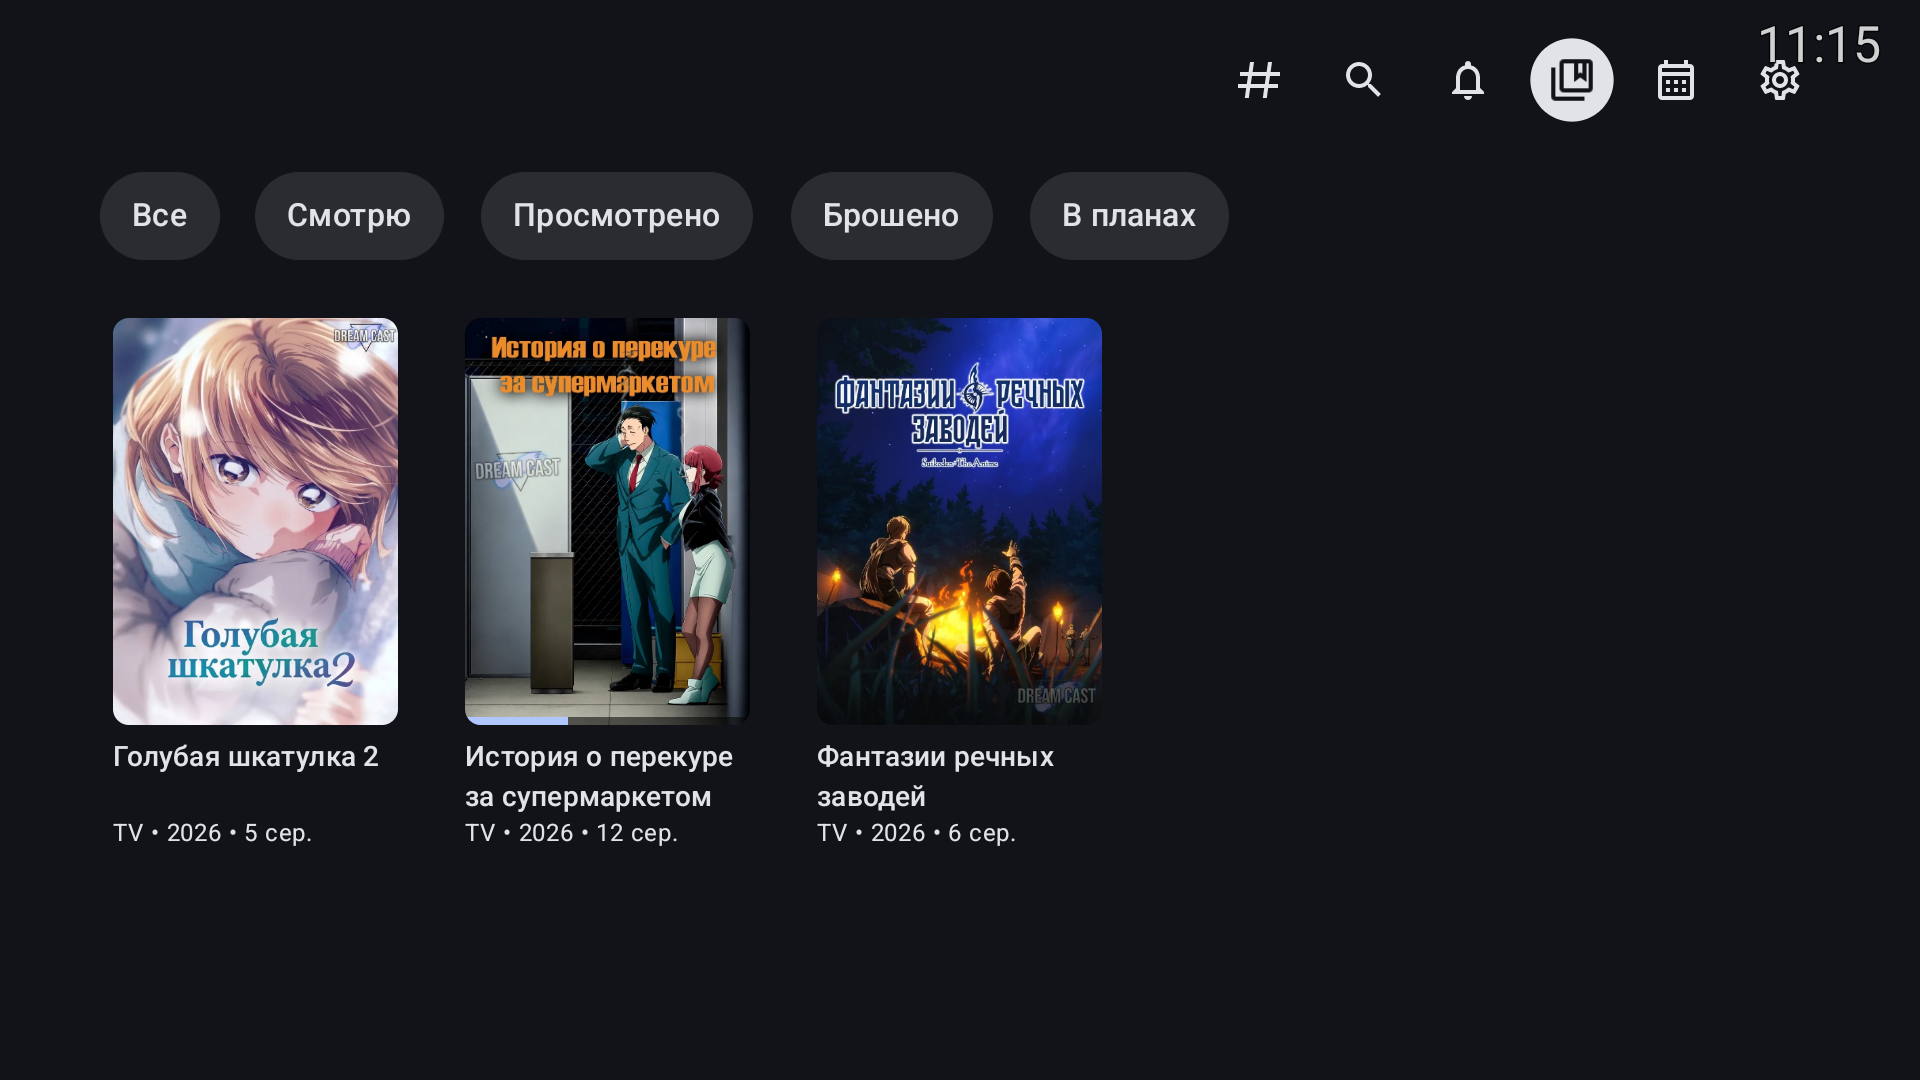
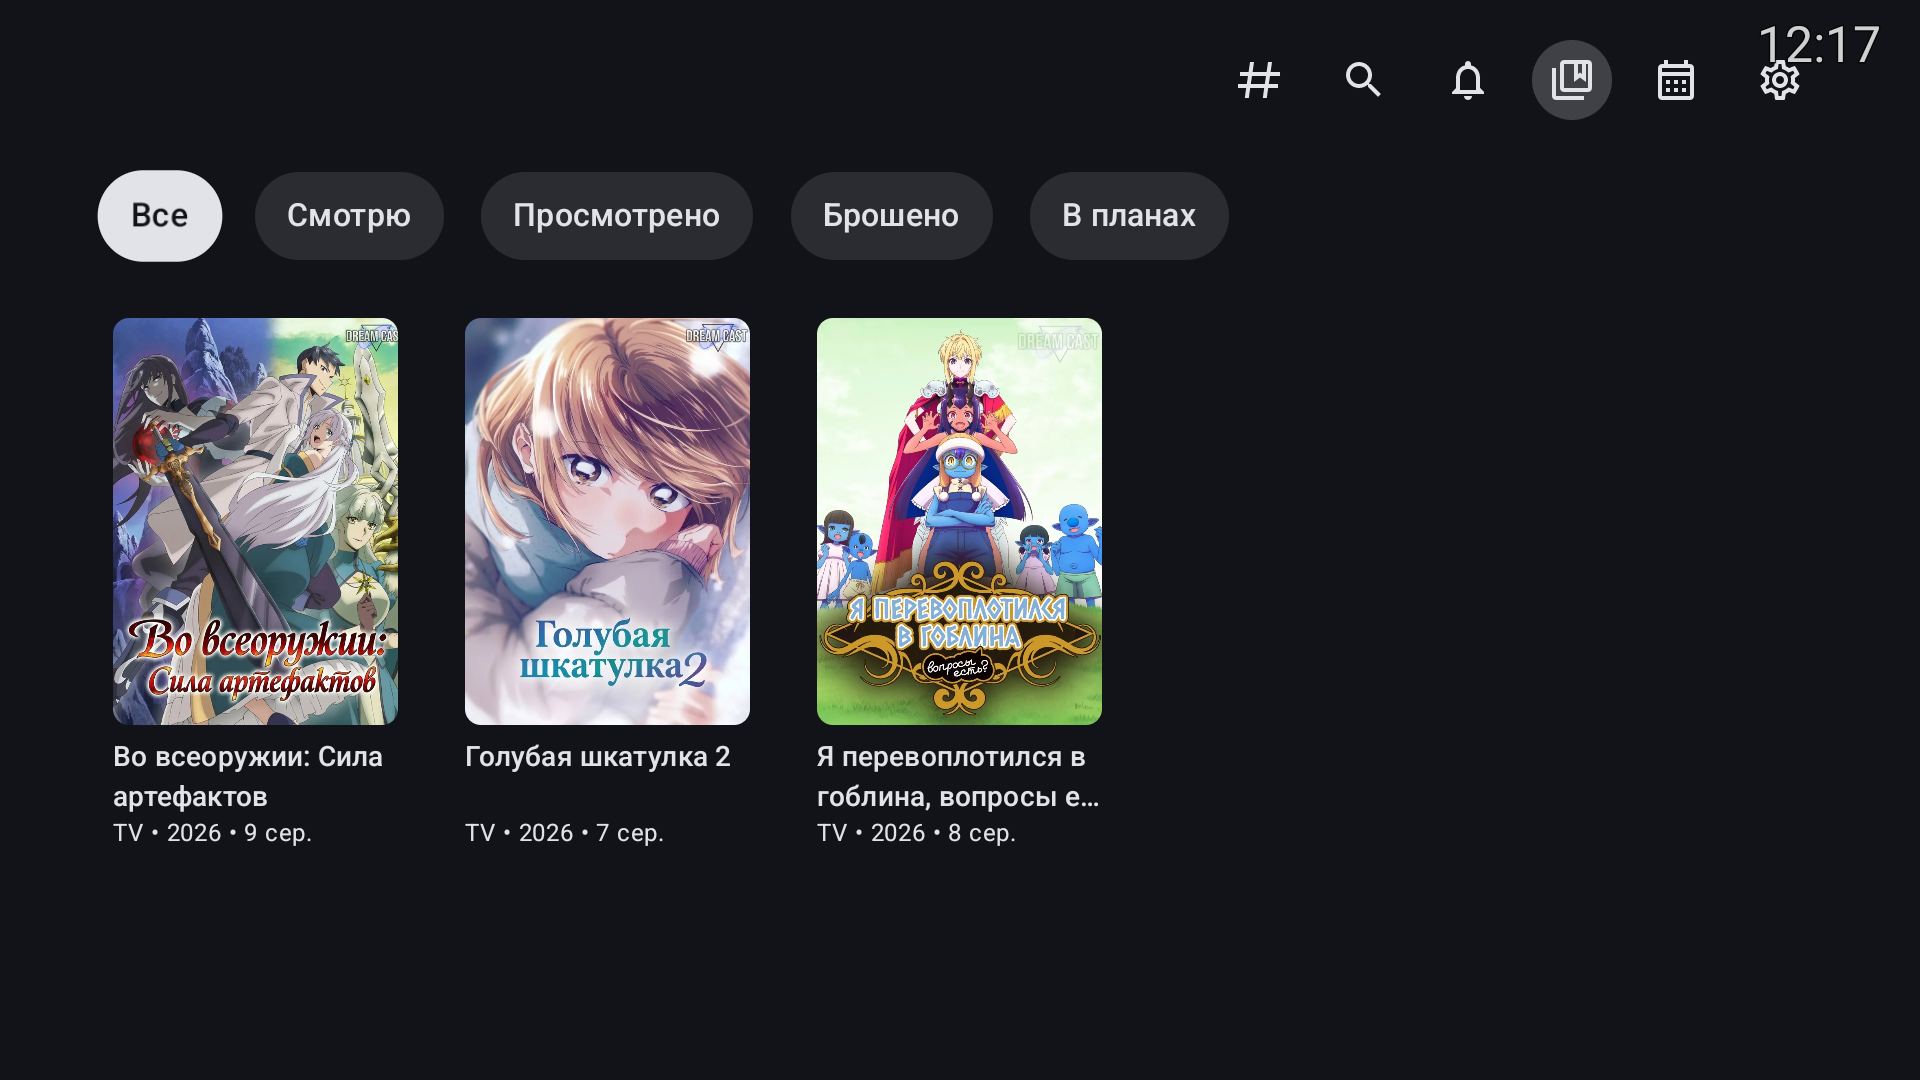
docs: add release notes for v1.0.7, retake the affected screenshots
v1.0.7 raises the minimum to Android 9 and moves the build to AGP 9; the
release build needs its notes. The screenshots of the year, genre and
status dialogs, settings, notifications, library and schedule now show the
check marks, highlighted filters and start focus added in v1.0.6.

diff --git a/docs/release-notes/RELEASE_NOTES_v1.0.7.md b/docs/release-notes/RELEASE_NOTES_v1.0.7.md
@@ -1,0 +1,66 @@
+# Dream Cast TV v1.0.7
+
+Единый нативный APK для Android TV и Google TV на Kotlin и Jetpack Compose.
+Версия — `1.0.7`, Android versionCode — `1007001`. Поддерживаются
+ARMv7 и ARM64. **Минимальная версия Android — 9 (API 28)**; до v1.0.6
+включительно — 6.0 (API 23).
+
+## Совместимость
+
+- **Нужен Android 9 или новее.** Текущие библиотеки Android (Compose,
+  Lifecycle, WorkManager, OkHttp) больше не поддерживают старые версии, и без
+  этого приложение не могло получать их обновления. На Android 6–8 последняя
+  доступная версия — v1.0.6. Приложение там предложит обновиться, но установка
+  новой версии не пройдёт; уже выпущенные версии исправить нельзя.
+- **Файл выпуска больше: около 7 МБ вместо 5,4.** На Android 9 и новее код
+  приложения лежит в APK несжатым: телевизор выполняет его прямо из файла и
+  не хранит отдельную распакованную копию. Скачивать обновление чуть дольше,
+  зато во внутренней памяти занято меньше, а установка и запуск быстрее.
+
+## Сборка и библиотеки
+
+- Android Gradle Plugin 9.5.2 со встроенным Kotlin, Gradle 9.9.2, Kotlin 2.4.21,
+  сборка под API 37.1.
+- Compose BOM 2026.11.01, Lifecycle 2.11.1, core-ktx 1.19.1, OkHttp 5.5.1,
+  WorkManager 2.12.0, jsoup 1.24.1. Плеер Media3 1.11.1 и dav1d не менялись.
+- Убраны обходы для Android ниже 9 и неиспользуемые PNG-иконки запуска.
+
+## Просмотр
+
+- **«Продолжить просмотр» запускает серию сразу**, без мелькания окна
+  «Серии». Окно открывается, только если серию не удалось запустить, — чтобы
+  выбрать другую, и только если главная ещё на экране.
+- **Плеер всегда запускает открытый экран приложения.** Раньше, если система
+  пересоздавала экран, пока серия готовилась к запуску, плеер мог не открыться.
+
+## Внутри
+
+- Окна выбора, «Настройки» и «Расписание» упрощены без изменения поведения;
+  кнопки плеера рисуются без лишней работы на каждом кадре.
+
+## Документация
+
+- Пересняты снимки README: год и жанры в каталоге, статус в библиотеке,
+  «Настройки», «Уведомления», «Библиотека», «Расписание» — с подсветкой
+  выбранного, «✓» и фокусом при открытии из v1.0.6.
+
+## Установка и совместимость
+
+Файл выпуска — `DreamCast-TV-v1.0.7-unified-release.apk`; рядом публикуется
+контрольная сумма SHA-256. Версии 0.9.5–1.0.6 на Android 9 и новее предложат
+обновиться сами. Подпись та же, данные сохраняются. Переход с 0.8.x и более
+ранних версий по-прежнему требует чистой установки.
+
+## Проверки
+
+Локально прошли 226 модульных тестов, Debug и Release Lint без ошибок,
+сборки Debug и Release с R8; CI на `develop` прошёл.
+
+Вручную, отладочной сборкой отдельным пакетом:
+- Google TV Streamer (Android 14, аппаратный AV1): главная, тайтл, серии,
+  просмотр, «Продолжить просмотр», «Настройки», запуск серии из списка, из
+  «Продолжить просмотр» и с ручным выбором потока (DASH);
+- Cosmos (Android 11, ARMv7): просмотр через dav1d в 720p и 1080p без
+  пропущенных кадров, сохранение прогресса.
+
+Release-сборка с R8 на телевизорах не запускалась. Chromecast не проверялся.
